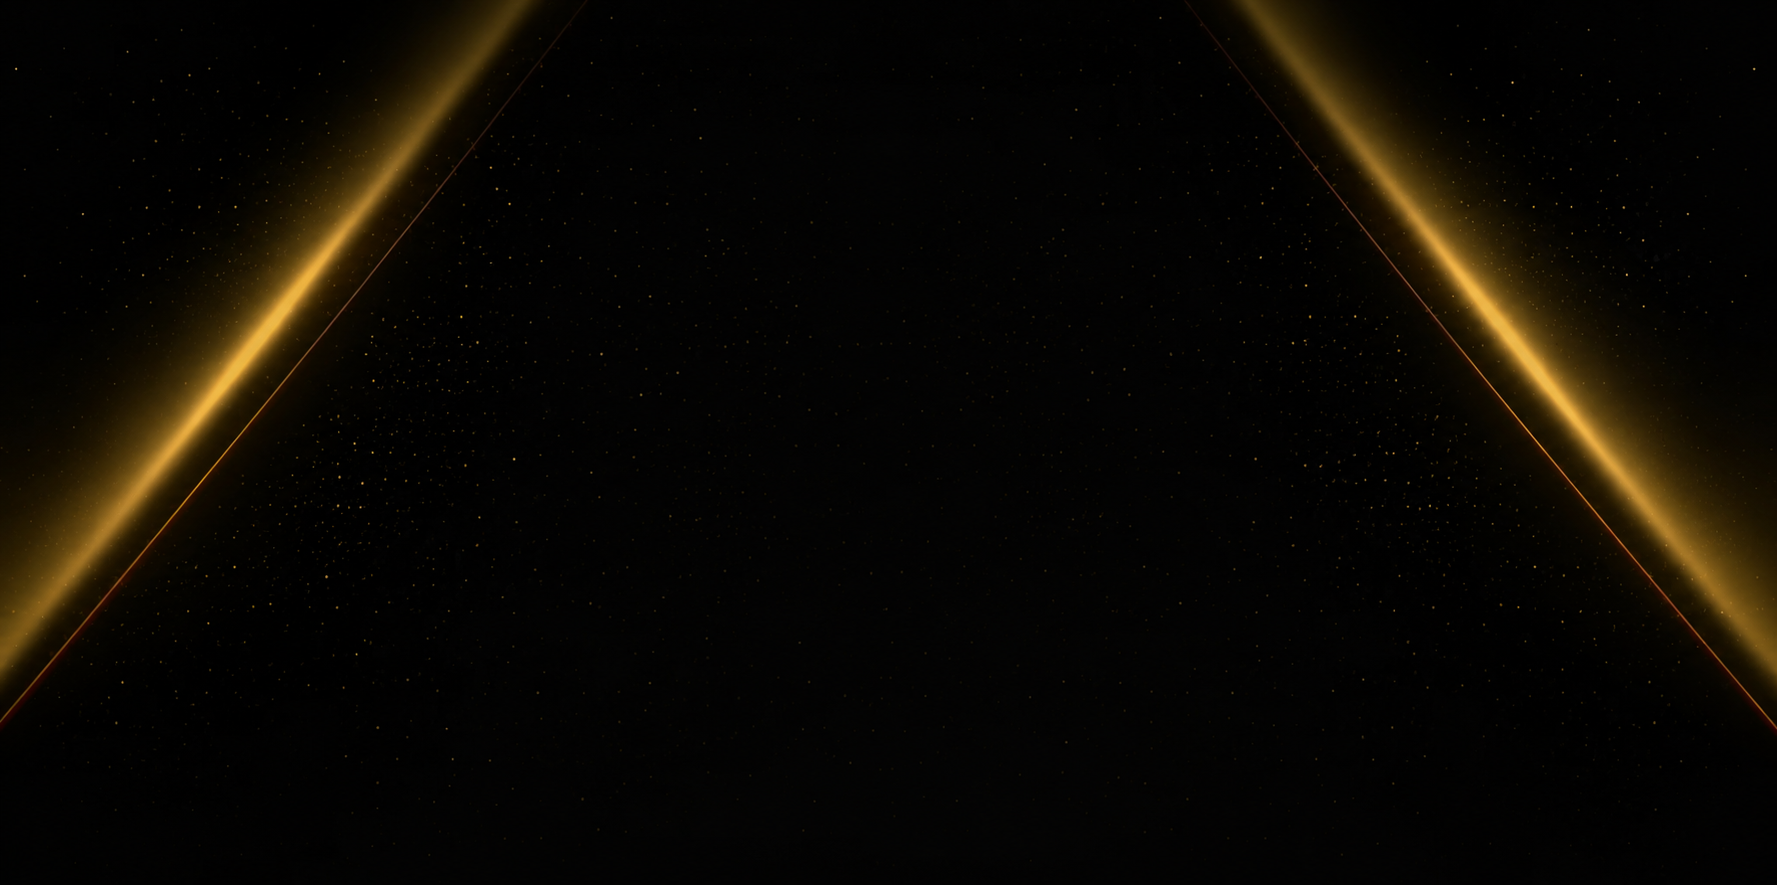
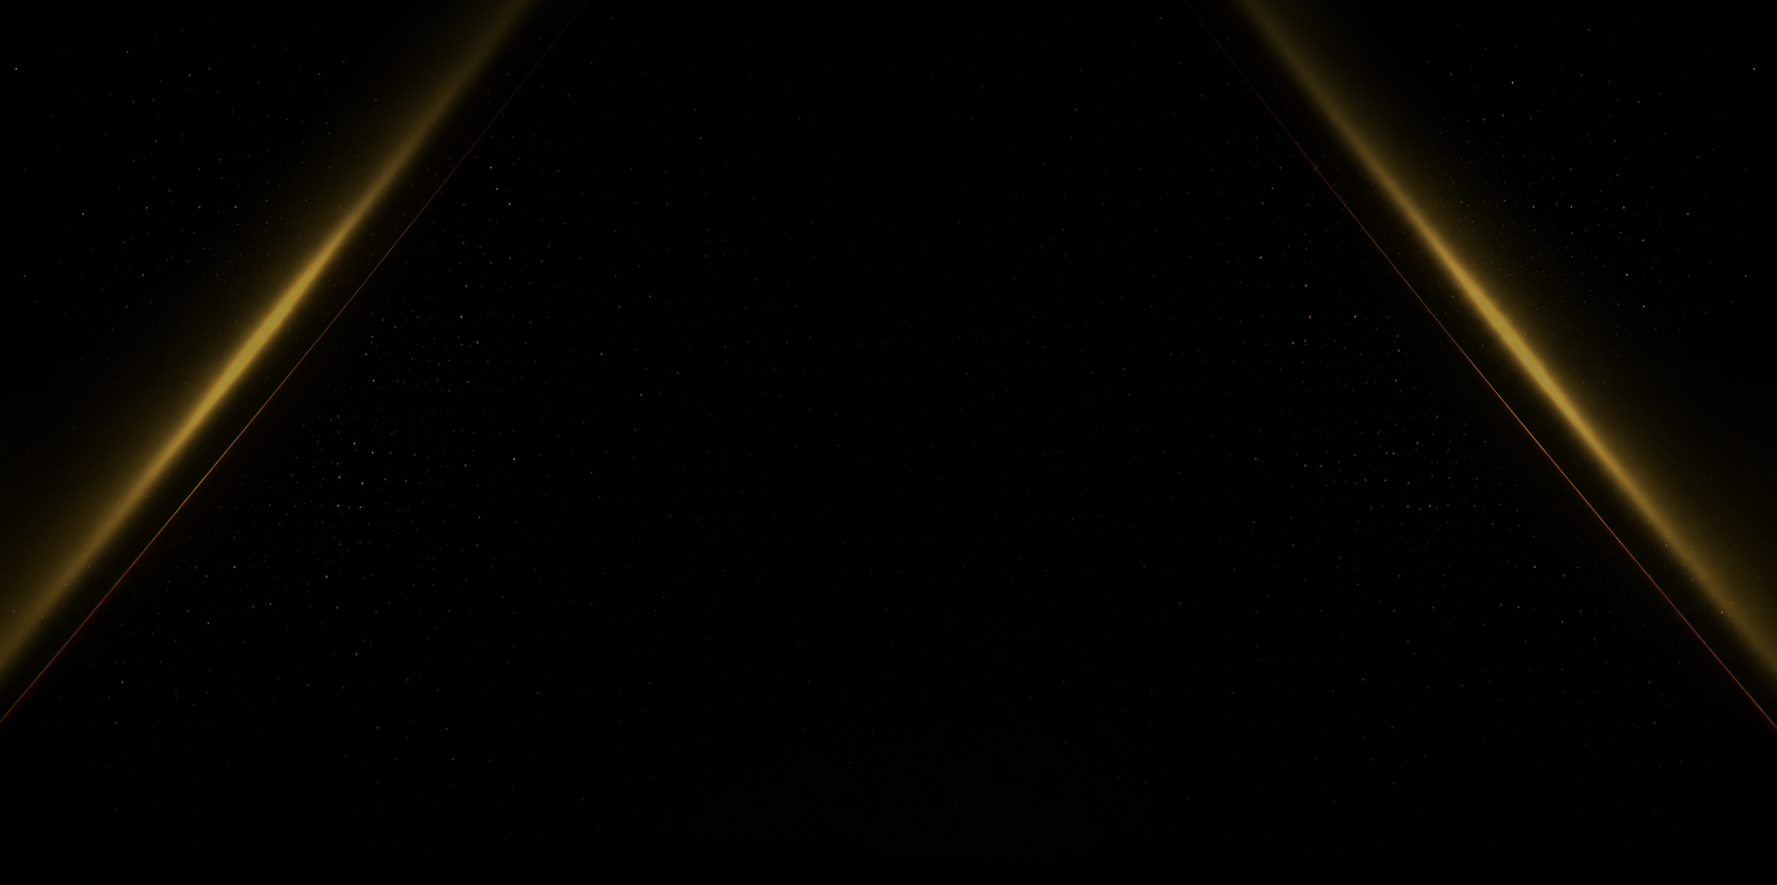
footer background updated

Changed region(s): [[0.6809, 0.0, 1.0, 0.8237], [0.0, 0.0, 0.3095, 0.7932]]

diff --git a/src/pages/index.tsx b/src/pages/index.tsx
@@ -97,13 +97,7 @@ export default function LandingPage() {
             {/* Dark overlay for readability */}
             <div className="absolute inset-0 rounded-2xl bg-black/55" />
             {/* Subtle border */}
-            <div className="absolute inset-0 rounded-2xl" style={{ boxShadow: "inset 0 0 0 1px rgba(255,255,255,0.1)" }} />
-            {/* Top ambient glow */}
-            <div
-              className="pointer-events-none absolute inset-x-0 top-0 h-40 rounded-t-2xl"
-              style={{ background: "radial-gradient(ellipse at 50% -20%, rgba(234,179,8,0.18) 0%, transparent 70%)" }}
-              aria-hidden
-            />
+            <div className="absolute inset-0 rounded-2xl" style={{ boxShadow: "inset 0 0 0 1px rgba(255,255,255,0.12)" }} />
 
             {/* Eyebrow badge */}
             <div className="relative z-10 mb-6 flex justify-center">